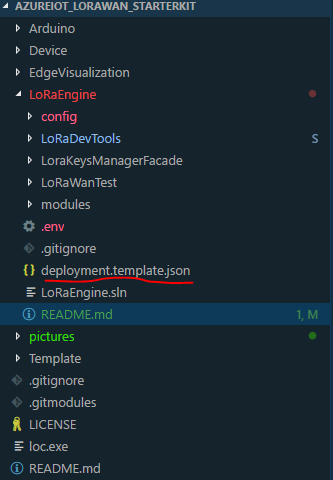
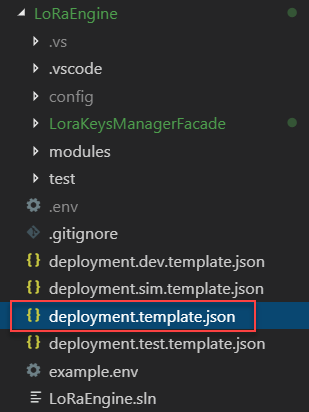
Updated Readme.md to reflect new automated deployment.
Updated Readme.md to reflect new automated deployment.

diff --git a/LoRaEngine/README.md b/LoRaEngine/README.md
@@ -85,17 +85,21 @@ From the Facade Azure function, extract the `Host key` of type `_master` and sav
 
 ![Extract Facade function Host key](/Docs/Pictures/FunctionHostKey.PNG)
 
-- Configure your `.env` file with your [Azure Container registry](https://azure.microsoft.com/en-us/services/container-registry/) as well as the Facade access URL and credentials. Those variables will be used by our [Azure IoT Edge solution template](/LoRaEngine/deployment.template.json). You can find an example of this file [here](/LoRaEngine/modules/example.env)
+- Create your `.env` file in the `/LoRaEngine` folder by copying the `example.env` file located [here](/LoRaEngine/example.env)
+- Configure your `.env` file with your own [Azure Container registry](https://azure.microsoft.com/en-us/services/container-registry/) as well as the Facade access URL and credentials. Set the region to "EU" or "US" based on your location. You do not need to change any of the other settings at this point.
+Those variables will be used by our [Azure IoT Edge solution template](/LoRaEngine/deployment.template.json).
 
 ```{bash}
+...
 CONTAINER_REGISTRY_ADDRESS=yourregistry.azurecr.io
 CONTAINER_REGISTRY_USERNAME=yourlogin
 CONTAINER_REGISTRY_PASSWORD=registrypassword
-PKT_FWD_VERSION=0.0.3
-NET_SRV_VERSION=0.0.2
+...
 REGION=EU
+...
 FACADE_SERVER_URL=https://yourfunction.azurewebsites.net/api/
-FACADE_AUTH_CODE=functionpassword
+FACADE_AUTH_CODE=yourfunctionpassword
+...
 ```
 
 ### Use a Proxy server to connect your Concentrator to Azure
@@ -108,7 +112,7 @@ Follow the guide on [configuring an IoT Edge device to communicate through a pro
 2. Configure the edgeAgent properties in the config.yaml file on your device.
 3. Set environment variables for the IoT Edge runtime in the deployment manifest. 
 
-After that, add the environment variable ```https_proxy``` to the ```LoRaWanNetworkSrvModule``` in your ```IoT Hub``` -> ```IoT Edge``` -> ```Edge Device``` -> ```Set Modules``` section.
+After that, add the environment variable `https_proxy` to the `LoRaWanNetworkSrvModule` in your `IoT Hub` &rarr; `IoT Edge` &rarr; `Edge Device` &rarr; `Set Modules` section.
 
 ![IoT Hub Edge Device Module Setting](/Docs/Pictures/EdgeSetProxy.png)
 
@@ -124,11 +128,15 @@ We will use [Azure IoT Edge for Visual Studio Code](https://marketplace.visualst
 
 Make sure you are logged in to the Azure Container Registry you are using. Run `docker login <mycontainerregistry>.azurecr.io` on your development machine.
 
-Now, build an push the solution by right clicking [deployment.template.json](/LoRaEngine/deployment.template.json) and select `Build and Push IoT Edge Solution` (look as alternative into [deployment.template.amd64.json](/LoRaEngine/deployment.template.amd64.json) for x64 based gateways)
+Select the architecture of your gateway (Azure IoT Edge Solution Default Platform) by clicking on the  button in the taskbar and selecting `amd64` or `arm32v7` in the command pallette.
+
+![VSCode: Azure IoT Edge Solution Default Platform](/Docs/Pictures/iotedgetargetplatform.png)
+
+Now, build an push the solution by right clicking [deployment.template.json](/LoRaEngine/deployment.template.json) and select `Build and Push IoT Edge Solution`.
 
 ![VSCode: Build and push edge solution](/Docs/Pictures/CreateEdgeSolution.PNG)
 
-After that you can push the solution to your IoT Edge device by right clicking on the device and select `Create Deployment for single device`
+After that you can push the solution to your IoT Edge device by right clicking on the device and selecting `Create Deployment for single device`. In the file dialog, navigate to the `LoRaEngine\config` folder and selet the `deployment.json` file which was created during the previous step.
 
 ![VSCode: Deploy edge solution](/Docs/Pictures/DeployEdge.PNG)
 
